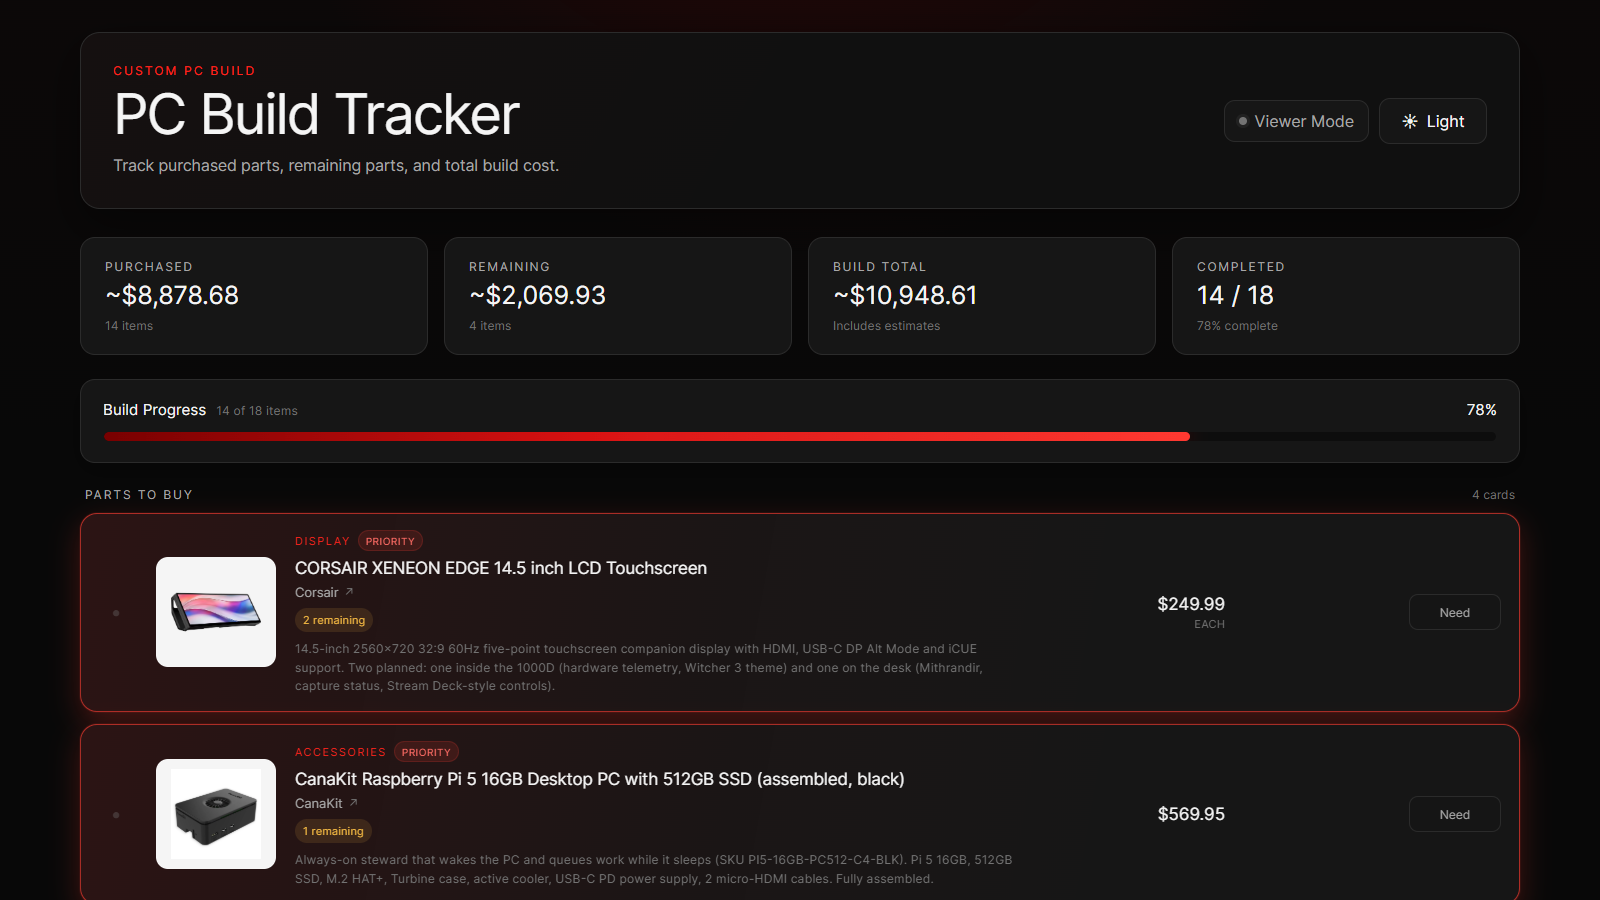
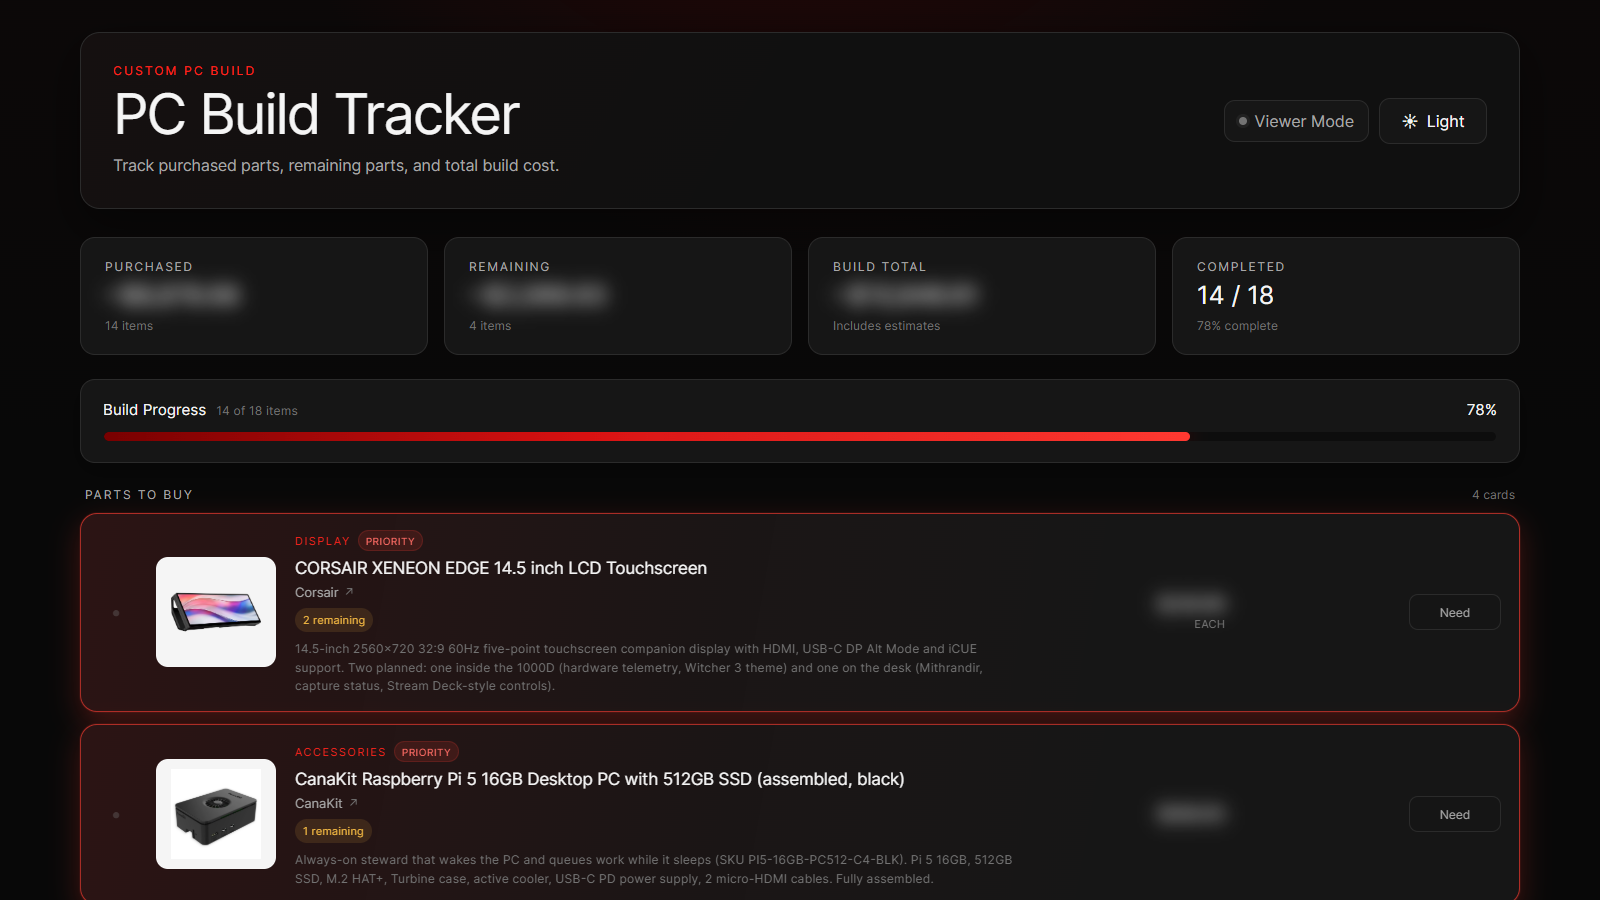
PC Build Tracker card: blur dollar amounts in the capture

diff --git a/docs/AUDIT-2026-11-16.md b/docs/AUDIT-2026-11-16.md
@@ -14,7 +14,7 @@ README has 102 lines; every URL checked returns 200 (LinkedIn returns 999, its b
 ## Changes in this PR (data only, no restyle)
 - Captain Hook card: repo link repointed from the deleted Discord-WebHook-Bot to Discord-Legacy-Bot (200).
 - Weather Dashboard: "legacy" tag dropped (the app is live).
-- Two new cards in the existing style: PC Build Tracker (live link, "Private source" note) and CI/CD Tech Quiz (live + public repo). The CI/CD card reuses the Tech Quiz capture (same app); the PC Build Tracker capture is new (`src/assets/photos/PC Build Tracker.png`, public viewer mode). It shows build spend totals; crop or swap if Bryen prefers not to show them.
+- Two new cards in the existing style: PC Build Tracker (live link, "Private source" note) and CI/CD Tech Quiz (live + public repo). The CI/CD card reuses the Tech Quiz capture (same app); the PC Build Tracker capture is new (`src/assets/photos/PC Build Tracker.png`, public viewer mode). Dollar amounts are blurred in the capture so no spend totals show publicly.
 - Accessibility spot check: 60 keyboard tab stops on /work all show a focus style; all images have alt; one h1 per route; no horizontal overflow at 390x844 or 1440x900; text colors keep contrast on both themes.
 
 ## Decision list for Bryen: links to repos on the make-private list
